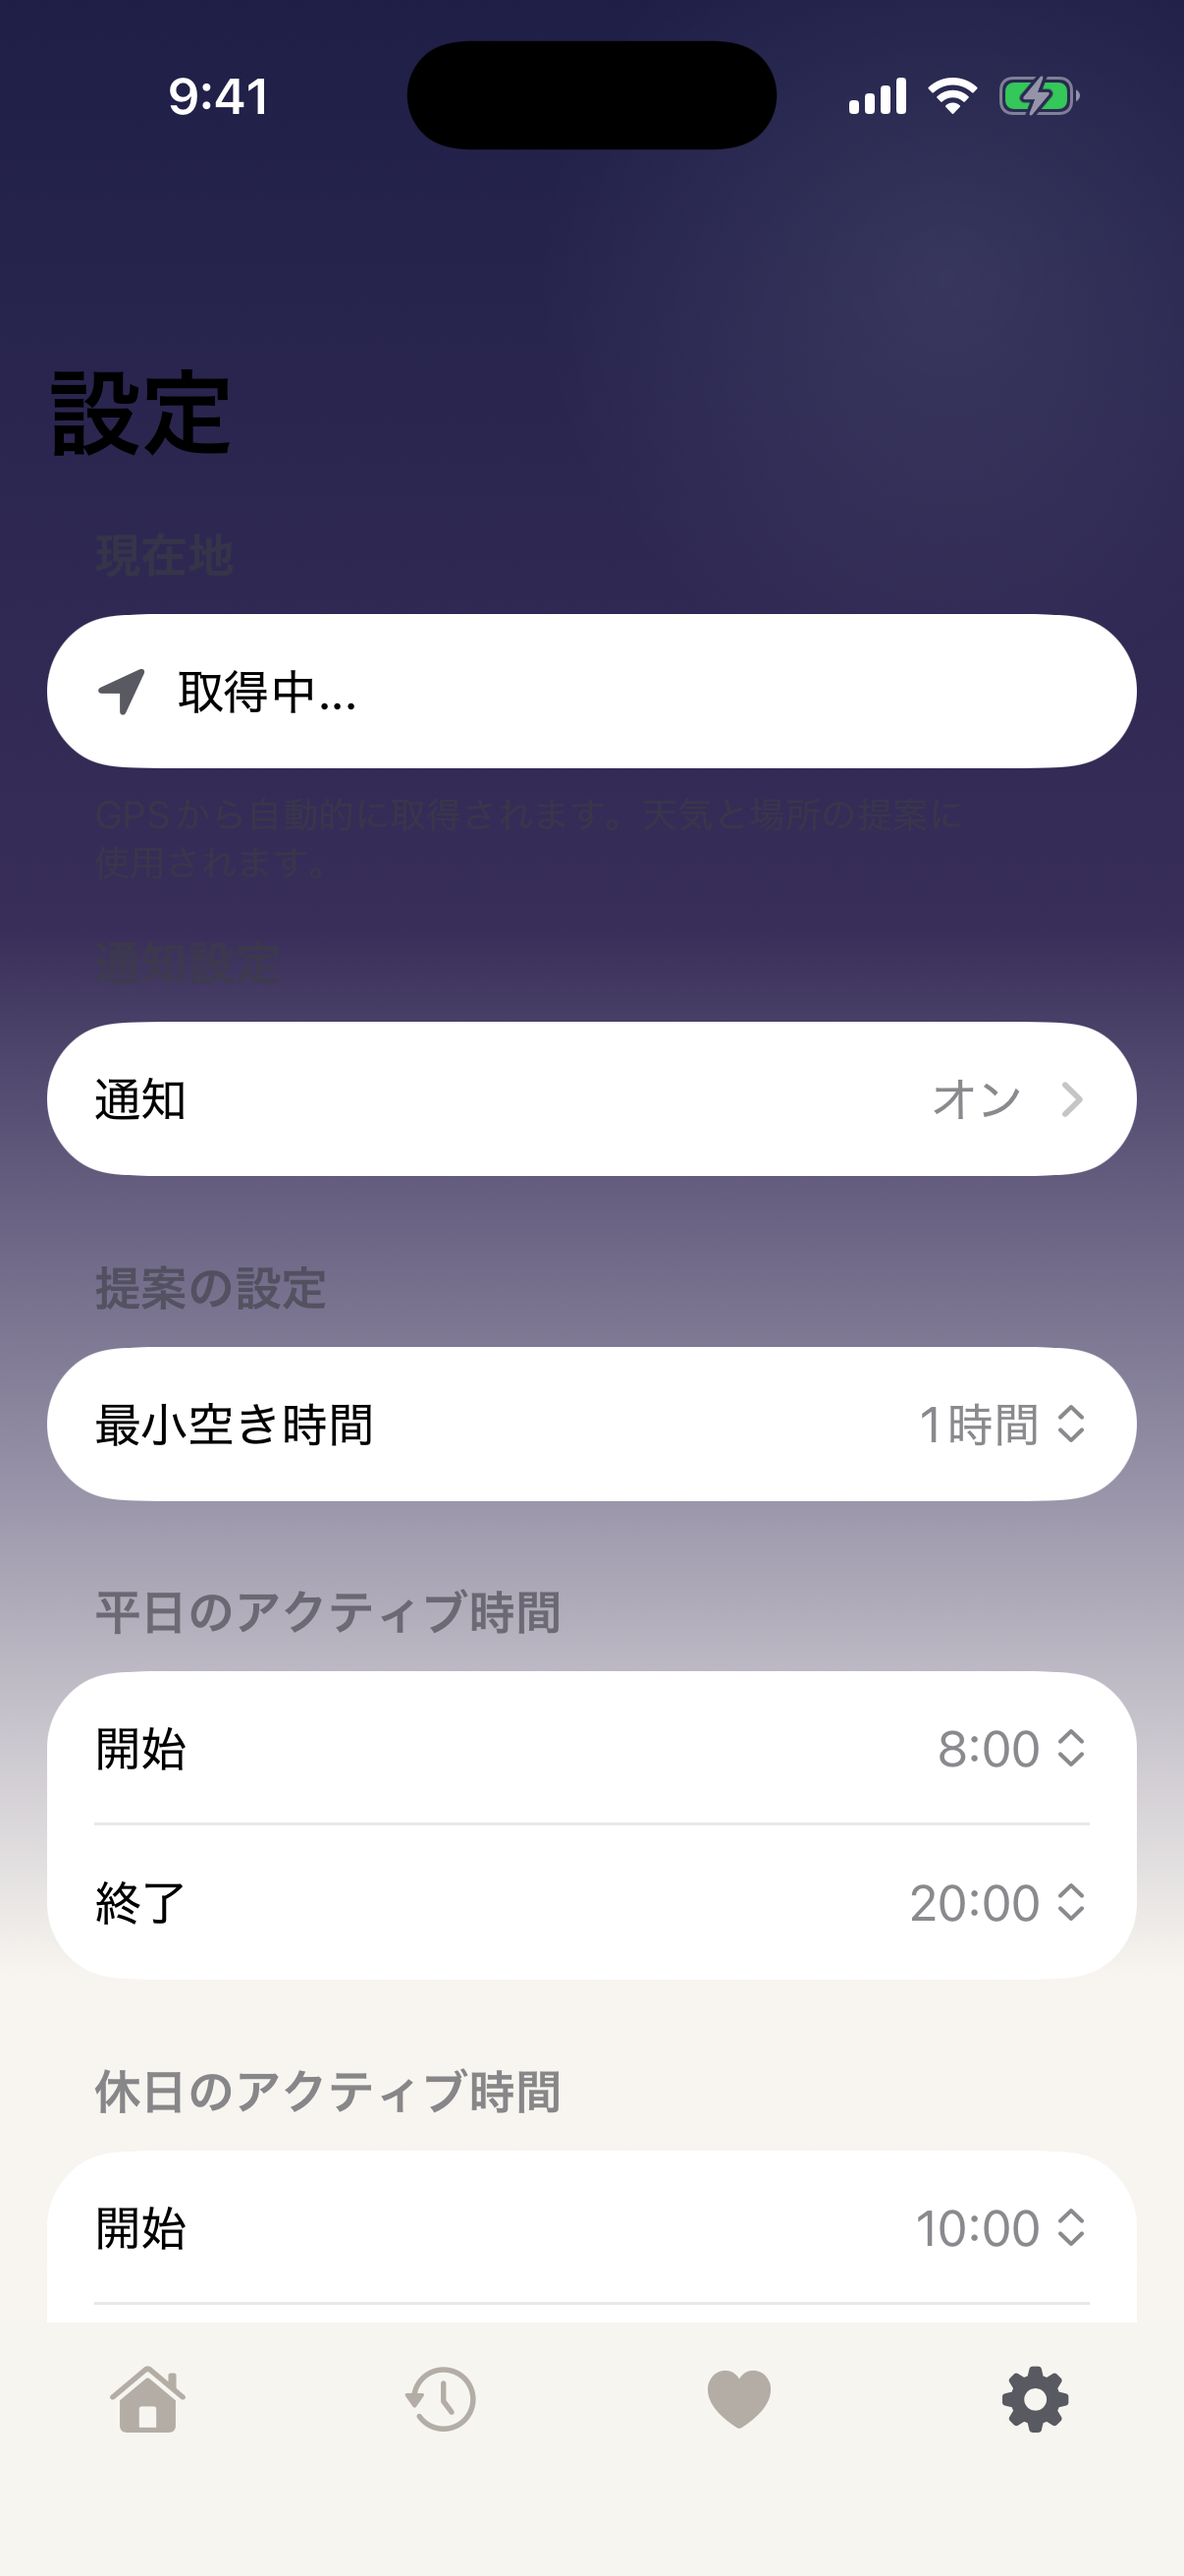
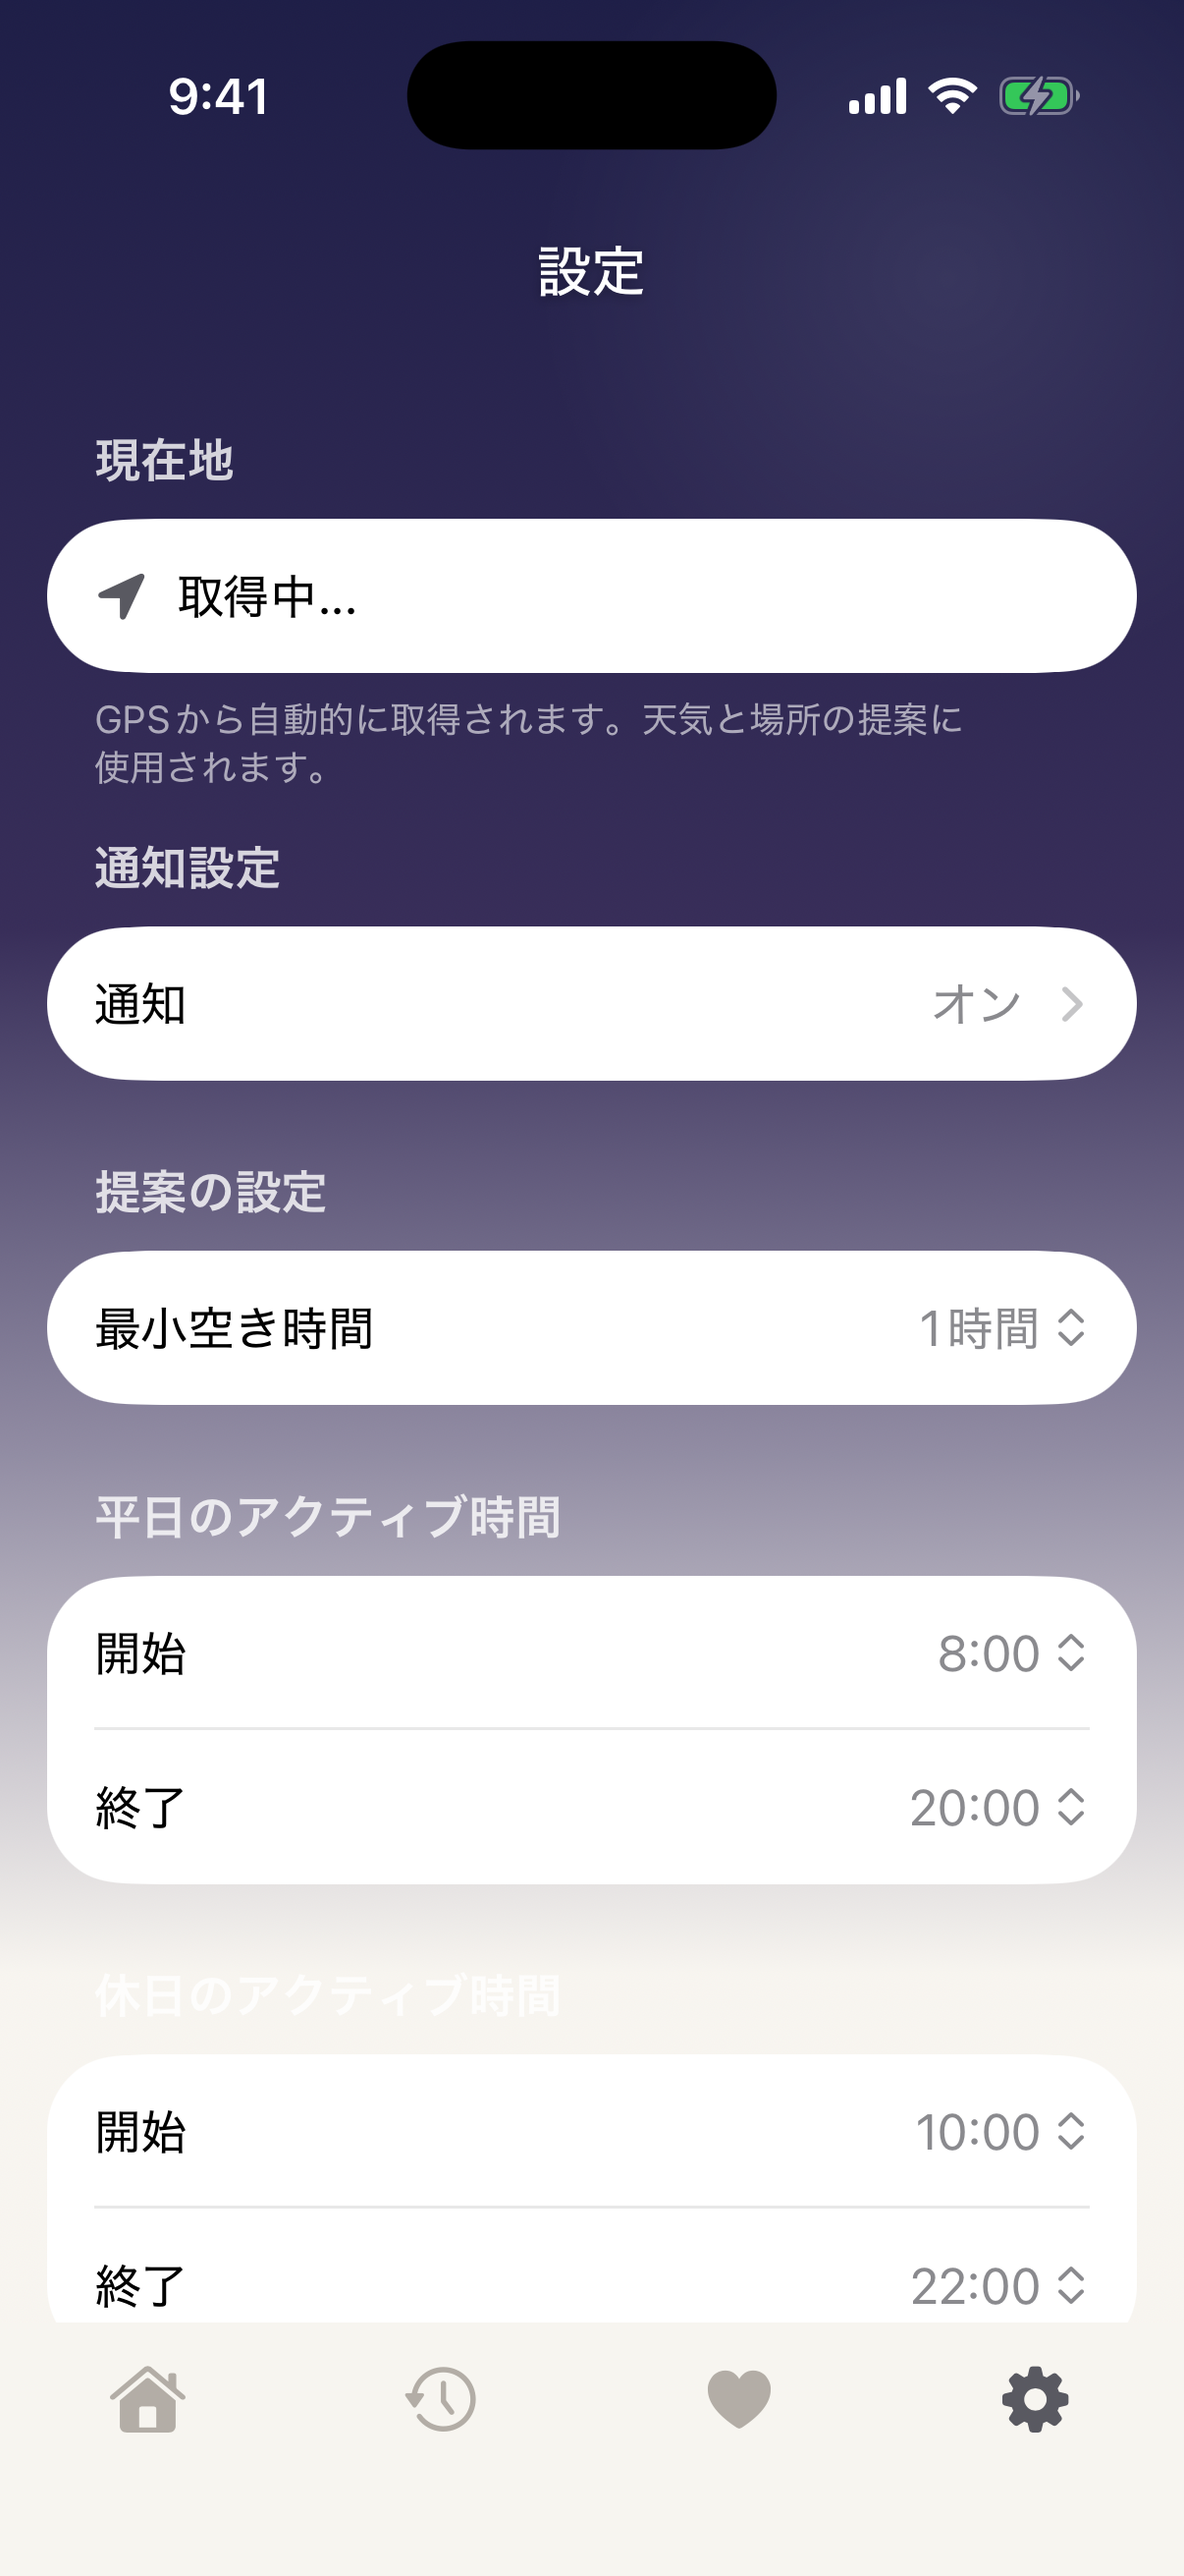
fix(settings): 設定画面の文字色を背景グラデーションに合わせて最適化
- useLightTextでセクションヘッダー・フッターの文字色を時間帯に応じて切替
- ナビゲーションタイトルを独自ヘッダーに置換し中央配置＆影付きに統一
- スクリーンショットを更新

diff --git a/SerendipityPlanner/Views/Settings/SettingsView.swift b/SerendipityPlanner/Views/Settings/SettingsView.swift
@@ -9,15 +9,42 @@ struct SettingsView: View {
     @State private var showFavoriteClearConfirmation = false
     @State private var showDeleteHistoryConfirmation = false
 
+    private var useLightText: Bool {
+        let period = TimePeriod.current()
+        return period.prefersLightText
+    }
+
+    private var sectionHeaderColor: Color {
+        useLightText ? .white.opacity(0.8) : .secondary
+    }
+
+    private var sectionFooterColor: Color {
+        useLightText ? .white.opacity(0.6) : .secondary
+    }
+
     var body: some View {
         NavigationView {
             ZStack {
                 SkyGradientView(weatherCondition: nil)
                 Form {
+                    // ヘッダー（他画面と統一）
+                    Section(header:
+                        Text("設定")
+                            .font(.title3)
+                            .fontWeight(.medium)
+                            .foregroundColor(useLightText ? .white : .primary)
+                            .shadow(color: useLightText ? .black.opacity(0.3) : .clear, radius: 2, y: 1)
+                            .textCase(nil)
+                            .frame(maxWidth: .infinity)
+                            .padding(.top, 8)
+                            .padding(.bottom, 4)
+                    ) { EmptyView() }
+
                     // Location
                     Section(
-                        header: Text("現在地"),
+                        header: Text("現在地").foregroundColor(sectionHeaderColor),
                         footer: Text("GPSから自動的に取得されます。天気と場所の提案に使用されます。")
+                            .foregroundColor(sectionFooterColor)
                     ) {
                         HStack {
                             Image(systemName: "location.fill")
@@ -28,7 +55,7 @@ struct SettingsView: View {
                     }
 
                     // Notifications
-                    Section(header: Text("通知設定")) {
+                    Section(header: Text("通知設定").foregroundColor(sectionHeaderColor)) {
                         NavigationLink {
                             NotificationSettingsView(viewModel: viewModel)
                         } label: {
@@ -42,7 +69,7 @@ struct SettingsView: View {
                     }
 
                     // Preferences
-                    Section(header: Text("提案の設定")) {
+                    Section(header: Text("提案の設定").foregroundColor(sectionHeaderColor)) {
                         // Minimum free time
                         Picker("最小空き時間", selection: $viewModel.minimumFreeTime) {
                             ForEach(viewModel.minimumFreeTimeOptions, id: \.self) { minutes in
@@ -55,7 +82,7 @@ struct SettingsView: View {
                     }
 
                     // Weekday active hours
-                    Section(header: Text("平日のアクティブ時間")) {
+                    Section(header: Text("平日のアクティブ時間").foregroundColor(sectionHeaderColor)) {
                         Picker("開始", selection: $viewModel.weekdayStartHour) {
                             ForEach(viewModel.startHourOptions, id: \.self) { hour in
                                 Text(viewModel.hourDisplayText(hour)).tag(hour)
@@ -78,7 +105,7 @@ struct SettingsView: View {
                     }
 
                     // Weekend active hours
-                    Section(header: Text("休日のアクティブ時間")) {
+                    Section(header: Text("休日のアクティブ時間").foregroundColor(sectionHeaderColor)) {
                         Picker("開始", selection: $viewModel.weekendStartHour) {
                             ForEach(viewModel.startHourOptions, id: \.self) { hour in
                                 Text(viewModel.hourDisplayText(hour)).tag(hour)
@@ -101,7 +128,7 @@ struct SettingsView: View {
                     }
 
                     // Categories
-                    Section(header: Text("提案カテゴリ")) {
+                    Section(header: Text("提案カテゴリ").foregroundColor(sectionHeaderColor)) {
                         ForEach(SuggestionCategory.allCases, id: \.self) { category in
                             Button {
                                 viewModel.toggleCategory(category)
@@ -125,8 +152,9 @@ struct SettingsView: View {
 
                     // Learning data
                     Section(
-                        header: Text("学習データ"),
+                        header: Text("学習データ").foregroundColor(sectionHeaderColor),
                         footer: Text("提案を受け入れるとカテゴリの出現率が調整されます。")
+                            .foregroundColor(sectionFooterColor)
                     ) {
                         ForEach(SuggestionCategory.allCases, id: \.self) { category in
                             HStack {
@@ -150,8 +178,9 @@ struct SettingsView: View {
 
                     // History data
                     Section(
-                        header: Text("履歴データ"),
+                        header: Text("履歴データ").foregroundColor(sectionHeaderColor),
                         footer: Text("受け入れた提案の履歴をすべて削除します。この操作は取り消せません。")
+                            .foregroundColor(sectionFooterColor)
                     ) {
                         Button(role: .destructive) {
                             showDeleteHistoryConfirmation = true
@@ -162,8 +191,9 @@ struct SettingsView: View {
 
                     // Favorites
                     Section(
-                        header: Text("お気に入り"),
+                        header: Text("お気に入り").foregroundColor(sectionHeaderColor),
                         footer: Text("お気に入りに保存したすべての提案を削除します。")
+                            .foregroundColor(sectionFooterColor)
                     ) {
                         Button(role: .destructive) {
                             showFavoriteClearConfirmation = true
@@ -173,7 +203,7 @@ struct SettingsView: View {
                     }
 
                     // App info
-                    Section(header: Text("アプリ情報")) {
+                    Section(header: Text("アプリ情報").foregroundColor(sectionHeaderColor)) {
                         HStack {
                             Text("バージョン")
                             Spacer()
@@ -183,7 +213,7 @@ struct SettingsView: View {
                     }
                 }
                 .hideFormBackground()
-                .navigationTitle("設定")
+                .navigationBarHidden(true)
                 .onAppear {
                     viewModel.configure(with: preferenceService, favoriteService: favoriteService)
                 }
